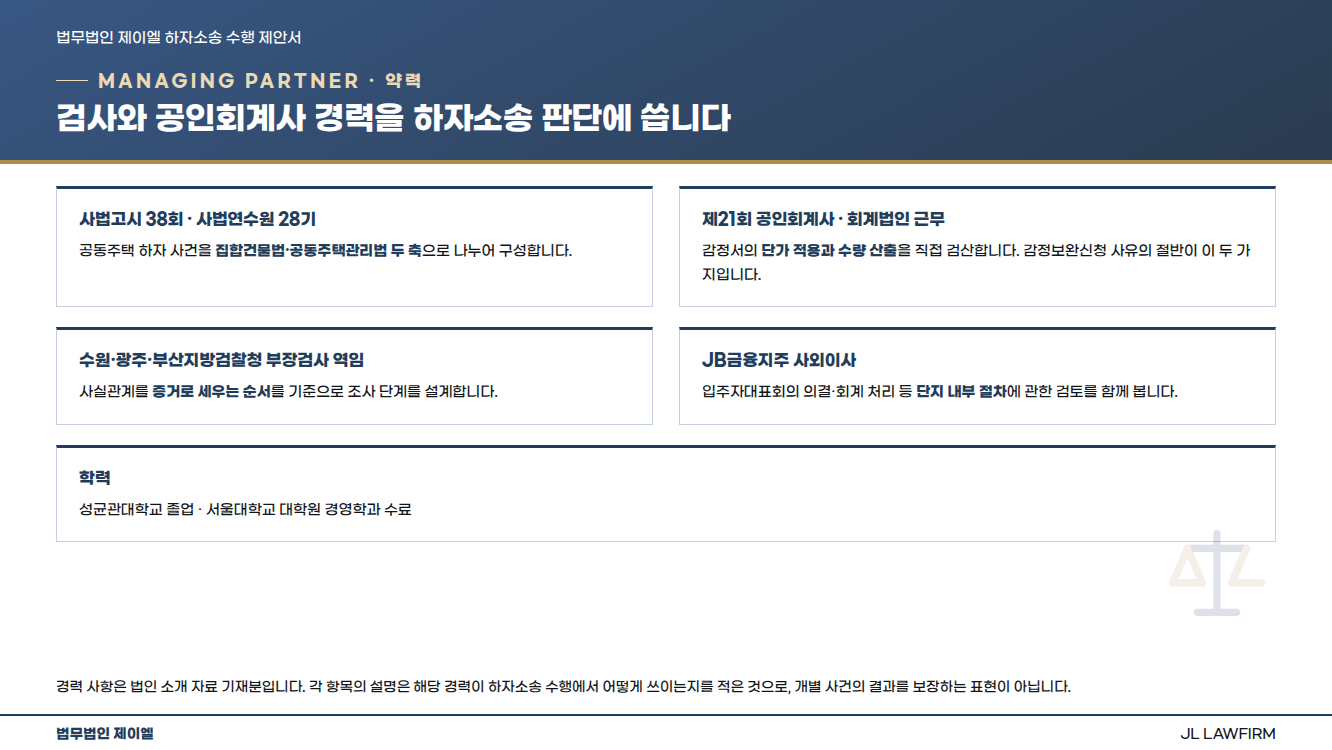
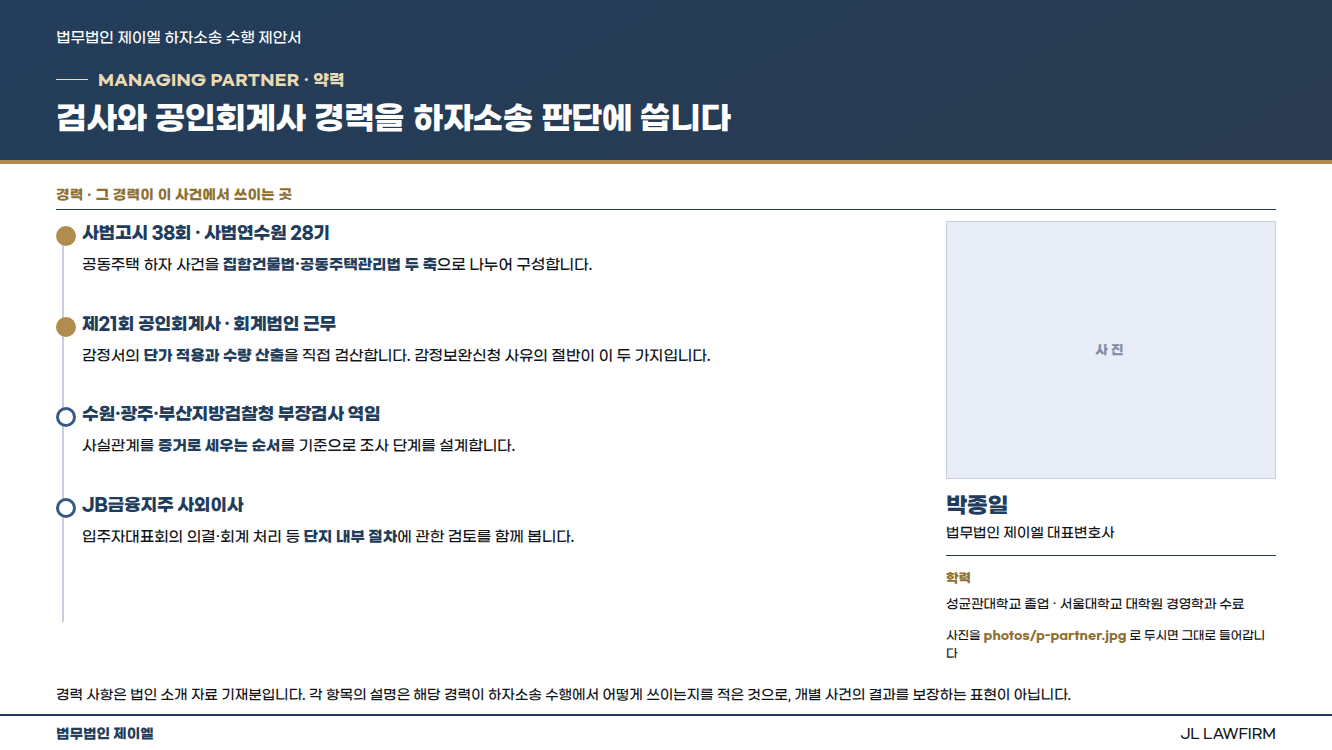
9·10·11번 전면 재작성 — 형식을 셋 다 다르게
두 장(사무소 안내·인력 구성)이 eyebrow와 제목까지 똑같아 같은 내용이 두 번
나오는 것처럼 읽혔다. 셋을 서로 다른 형식으로 다시 짰다.

- 09 대표변호사 약력: 세로 연혁 타임라인. 왼쪽에 경력, 오른쪽에 그 경력이
  이 사건에서 쓰이는 곳. 변호사 사진 자리를 넣었다.
- 10 사무소 안내: 두 사무소를 2단으로 갈라 각각 사진·주소·연락처·관할을 담았다.
  제목을 '관할을 나누어 맡습니다'로 바꿔 11번과 겹치지 않게 했다.
- 11 인력 구성: 표에 '36명'이라고 적는 대신 점 36개로 세는 도트 차트로 바꿨다.
  변호사 7 대 사무직원 36의 차이가 눈으로 바로 들어온다.

경력·인원·주소는 기존 파일에 있던 값만 옮겼고 새로 만든 사실이 없다.

Claude-Session: https://claude.ai/code/session_01McKVzc7RRv66NSkAtofwT1

diff --git a/template/design/S26b2_PartnerCareer.dc.html b/template/design/S26b2_PartnerCareer.dc.html
@@ -11,105 +11,115 @@
     font-family:"Pretendard","Malgun Gothic",sans-serif;color:var(--ink);position:relative;}
   .runner{position:absolute;top:28px;left:56px;right:56px;display:flex;justify-content:space-between;
     font-size:15px;color:var(--muted);}
-  .eyebrow{position:absolute;left:56px;top:70px;font-size:17px;letter-spacing:.2em;color:var(--gold-ink);
+  .eyebrow{position:absolute;left:56px;top:70px;font-size:16px;letter-spacing:.02em;color:var(--gold-ink);
     font-weight:700;display:flex;align-items:center;gap:10px;}
   .eyebrow::before{content:"";width:32px;height:1px;background:var(--gold-ink);}
-  .badge{position:absolute;right:56px;top:70px;font-size:14px;color:#8F7033;background:#FBF7EE;
-    border:1px solid #E7D9BC;border-radius:0;padding:4px 10px;}
-  .title{position:absolute;left:56px;top:96px;right:56px;font-size:34px;font-weight:800;
+  .title{position:absolute;left:56px;top:96px;right:56px;font-size:32px;font-weight:800;
     color:var(--navy);letter-spacing:-.02em;line-height:1.4;}
-  .note{font-size:14px;color:var(--muted);background:#fff;border:1px solid var(--line);border-top:3px solid var(--navy);
-    border-radius:0;padding:12px 18px;line-height:1.6;}
-  .note-gold{font-size:14px;color:var(--muted);background:#FBF7EE;border:1px solid #E7D9BC;
-    border-radius:0;padding:12px 18px;line-height:1.7;}
   .footer{position:absolute;bottom:0;left:0;right:0;height:36px;display:flex;align-items:center;
     justify-content:space-between;padding:0 56px;border-top:1.4px solid var(--line);
     font-size:14px;color:var(--muted);}
   .footer .firm{color:var(--navy);font-weight:700;}
 
-  .title{font-size:32px;}
-  .wrap{position:absolute;left:56px;top:186px;right:56px;bottom:52px;display:flex;gap:38px;}
-  .photo{width:290px;flex:0 0 auto;}
-  .photo .box{width:290px;height:362px;border:1px solid var(--line);overflow:hidden;
-    background:radial-gradient(circle at 50% 30%,#E9EDF8,#dfe3ec);}
-  .photo img{width:100%;height:100%;object-fit:cover;display:block;}
-  .photo .nm{margin-top:16px;font-size:24px;font-weight:800;color:var(--navy);}
-  .photo .rl{margin-top:5px;font-size:14px;color:var(--gold-ink);font-weight:700;letter-spacing:.04em;}
-  .body{flex:1;display:flex;flex-direction:column;}
-  .greet{font-size:18px;line-height:1.95;color:var(--ink);}
-  /* 강조 문장 — S02·S03b와 같은 어법(골드 바 + 굵은 네이비 단문) */
-  .gbar{margin-top:24px;width:56px;height:4px;background:var(--gold);}
-  .gpunch{margin-top:16px;font-size:22px;font-weight:800;color:var(--navy);
-    line-height:1.5;letter-spacing:-.02em;}
-  .greet b{color:var(--navy);}
-  .career{margin-top:22px;padding-top:18px;border-top:1.4px solid var(--line);
-    display:grid;grid-template-columns:repeat(2,1fr);gap:9px 28px;}
-  .career li{position:relative;padding-left:13px;font-size:14px;color:var(--ink);line-height:1.65;list-style:none;}
-  .career li::before{content:"";position:absolute;left:0;top:9px;width:4px;height:4px;
-    background:var(--gold);border-radius:50%;}
-  .sign{margin-top:auto;padding-top:16px;border-top:1px solid var(--line);
-    display:flex;justify-content:space-between;align-items:flex-end;}
-  .sign .f{font-size:14px;color:var(--ink);}
-  .sign .n{font-size:19px;font-weight:800;color:var(--navy);}
+  /* ── 본문 프리미티브 ── */
+  .body{position:absolute;left:56px;right:56px;top:186px;bottom:104px;}
+  .sec{font-size:14px;font-weight:800;color:var(--gold-ink);letter-spacing:.02em;
+    padding-bottom:6px;border-bottom:1.6px solid var(--navy);margin-bottom:11px;}
+  .sec+.sec,.blk+.sec{margin-top:16px;}
+
+  .cards{display:grid;gap:14px;}
+  .c{border:1px solid var(--line);border-top:3px solid var(--navy);background:#fff;padding:14px 17px;}
+  .c .ck{font-size:16.5px;font-weight:800;color:var(--navy);letter-spacing:-.01em;}
+  .c .cv{margin-top:8px;font-size:14.5px;line-height:1.62;color:var(--ink);}
+  .c .cn{font-size:13px;font-weight:800;color:var(--gold-ink);letter-spacing:.12em;margin-bottom:6px;}
+  .c b{color:var(--navy);font-weight:800;}
+
+  .flow{display:grid;gap:0;}
+  .step{position:relative;border:1px solid var(--line);background:#fff;padding:13px 15px 14px;}
+  .step+.step{border-left:0;}
+  .step .num{font-size:12px;font-weight:800;color:#fff;background:var(--fill);
+    width:22px;height:22px;display:flex;align-items:center;justify-content:center;margin-bottom:8px;}
+  .step .t{font-size:15.5px;font-weight:800;color:var(--ink);line-height:1.35;}
+  .step .b{margin-top:7px;font-size:13.5px;line-height:1.55;color:var(--ink);}
+
+  .tbl{border:1px solid var(--line);}
+  .tbl .th{display:flex;background:var(--fill);color:#fff;font-size:15px;font-weight:700;}
+  .tbl .th div{padding:10px 15px;}
+  .tbl .tr{display:flex;border-top:1px solid var(--line);font-size:14.5px;line-height:1.5;}
+  .tbl .tr div{padding:9px 15px;}
+  .tbl .tr b{color:var(--navy);font-weight:800;}
+
+  .kv .r{display:flex;gap:10px;font-size:14.5px;line-height:1.55;padding:7px 0;
+    border-bottom:1px solid var(--line);}
+  .kv .r:last-child{border-bottom:0;}
+  .kv .r span{flex:0 0 118px;color:var(--navy);font-weight:700;}
+  .kv .r em{flex:1;font-style:normal;}
+
+  .split{display:flex;gap:26px;height:100%;}
+  .split>div{flex:1;}
+
+  .verify{position:absolute;left:56px;right:56px;bottom:96px;height:152px;
+    display:grid;grid-template-columns:1fr 1fr 1fr;
+    border:1.4px solid var(--line);border-top:3px solid var(--navy);background:#fff;}
+  .verify>div{padding:13px 18px 12px;border-left:1px solid var(--line);}
+  .verify>div:first-child{border-left:0;}
+  .verify .vk{font-size:15.5px;font-weight:800;color:var(--navy);margin-bottom:7px;
+    display:flex;align-items:center;gap:7px;letter-spacing:-.01em;}
+  .verify .vk::before{content:"";width:4px;height:15px;background:var(--gold);}
+  .verify .vv{font-size:14.5px;line-height:1.6;color:var(--ink);}
+  .verify .warnk{color:#C0392B;}
+  .verify .warnk::before{background:#C0392B!important;}
+  .verify *{background:transparent;}
+
+  .note{position:absolute;left:56px;right:56px;bottom:44px;font-size:14px;line-height:1.6;color:var(--ink);}
 
   /* ── 법무법인 제안서 헤더 밴드 ── */
   body::before{content:"";position:absolute;left:0;top:0;right:0;height:160px;
-    background:linear-gradient(152deg,#385783 0%,#2A3B4F 100%);z-index:0;}
+    background:linear-gradient(150deg,#223D5B 0%,#2A3B4F 100%);z-index:0;}
   body::after{content:"";position:absolute;left:0;top:160px;right:0;height:4px;
     background:var(--gold);z-index:1;}
   .runner{z-index:2;color:#FFFFFF!important;}
   .eyebrow{z-index:2;color:#EBD9B4!important;}
   .eyebrow::before{background:#EBD9B4!important;}
   .title{z-index:2;color:#FFFFFF!important;}
-  .badge{z-index:2;background:rgba(255,255,255,.10)!important;
-    border-color:rgba(203,178,126,.55)!important;color:#EBD9B4!important;}
-
-  /* ── 바탕 ── 흰 여백이 구멍처럼 보이지 않도록 연한 지면을 깔고
-     내용 블록을 흰색으로 올린다. 빈 곳도 지면으로 읽힌다. */
   html,body{background:#FFFFFF!important;}
-  body>*:not(.runner):not(.eyebrow):not(.title):not(.badge):not(.footer){z-index:1;}
+  body>*:not(.runner):not(.eyebrow):not(.title):not(.footer){z-index:1;}
   .footer{background:#fff;border-top:2px solid var(--navy)!important;z-index:2;}
-  /* 흰 블록 위로 올라오는 요소들 */
-  .note,.card,.c,.g,.b,.n,.m,.st,.item,.qa,.q,.p,.w,.s,.z,.tbl,.table,
-  .cards>div,.grid>div,.list>div,.cols>div,.need>div,.stages>div{background:#fff;}
-  .note{background:#fff!important;}
 
-  /* 네이비 패널 내부는 바탕 규칙에서 제외 (흰 칠이 글자를 덮지 않도록) */
-  .warn *,.decide *,.result *,.rec *,.calc *,.contact *,.key *,.resp *,
-  .sum *,.panel *,.band *,.record *,.total *{background:transparent!important;}
-  /* ── 약력 장 ── 2열 카드형. 경력 한 줄 + 하자소송에서 어떻게 쓰이는지 한 줄 */
-  .cv{position:absolute;left:56px;top:186px;right:56px;
-    display:grid;grid-template-columns:1fr 1fr;gap:20px 26px;}
-  .cv .i{border:1px solid var(--line);border-top:3px solid var(--navy);background:#fff;
-    padding:19px 22px 20px;}
-  .cv .wide{grid-column:1 / -1;}
-  .cv .k{font-size:16.5px;font-weight:800;color:var(--navy);letter-spacing:-.01em;line-height:1.4;}
-  .cv .d{margin-top:8px;font-size:14.5px;line-height:1.62;color:var(--ink);}
-  .cv .d b{color:var(--navy);font-weight:800;}
-  .cvnote{position:absolute;left:56px;right:56px;bottom:52px;font-size:14px;
-    line-height:1.6;color:var(--ink);}
+  /* ── 세로 연혁 타임라인 ── 왼쪽에 경력, 오른쪽에 그 경력이 이 사건에서 쓰이는 곳.
+     카드 상자를 반복하지 않으려고 축과 점으로만 구성했다. */
+  .cvwrap{display:flex;gap:30px;margin-top:10px;}
+  .tl{flex:1;position:relative;padding-left:26px;}
+  /* 축은 마지막 점에서 끝나야 한다. 마지막 항목의 아래 여백만큼 잘라 낸다. */
+  .tl::before{content:"";position:absolute;left:6px;top:8px;bottom:40px;width:2px;background:var(--line);}
+  .tl .it{position:relative;padding:0 0 34px;}
+  .tl .it:last-child{padding-bottom:0;}
+  .tl .it::before{content:"";position:absolute;left:-26px;top:5px;width:14px;height:14px;
+    background:#fff;border:3px solid var(--fill);border-radius:50%;}
+  .tl .it.key::before{border-color:var(--gold);background:var(--gold);}
+  .tl .k{font-size:17.5px;font-weight:800;color:var(--navy);letter-spacing:-.02em;}
+  .tl .v{margin-top:8px;font-size:15px;line-height:1.7;color:var(--ink);}
+  .tl .v b{color:var(--navy);font-weight:800;}
+  .cvside{flex:0 0 330px;display:flex;flex-direction:column;}
+  .cvside .pbox{width:330px;height:258px;border:1px solid var(--line);
+    background:var(--card) center/cover no-repeat;position:relative;}
+  .cvside .pbox::after{content:"사진";position:absolute;left:50%;top:50%;
+    transform:translate(-50%,-50%);font-size:13px;font-weight:800;letter-spacing:.24em;color:#7F8CA6;}
+  .cvside .nm{margin-top:14px;font-size:22px;font-weight:800;color:var(--navy);letter-spacing:-.02em;}
+  .cvside .rl{margin-top:6px;font-size:14px;color:var(--ink);}
+  .cvside .ed{margin-top:14px;padding-top:12px;border-top:1.4px solid var(--navy);
+    font-size:13px;line-height:1.62;color:var(--ink);}
+  .cvside .ed b{display:block;margin-bottom:5px;color:var(--gold-ink);font-weight:800;font-size:13px;}
+  .cvside .pf{margin-top:11px;font-size:12px;line-height:1.5;color:var(--ink);}
+  .cvside .pf b{color:var(--gold-ink);font-weight:800;}
 </style>
 </head>
 <body>
   <div class="runner"><span>법무법인 제이엘 하자소송 수행 제안서</span></div>
   <div class="eyebrow">MANAGING PARTNER · 약력</div>
   <div class="title">검사와 공인회계사 경력을 하자소송 판단에 씁니다</div>
-
-  <div class="cv">
-    <div class="i"><div class="k">사법고시 38회 · 사법연수원 28기</div>
-      <div class="d">공동주택 하자 사건을 <b>집합건물법·공동주택관리법 두 축</b>으로 나누어 구성합니다.</div></div>
-    <div class="i"><div class="k">제21회 공인회계사 · 회계법인 근무</div>
-      <div class="d">감정서의 <b>단가 적용과 수량 산출</b>을 직접 검산합니다. 감정보완신청 사유의 절반이 이 두 가지입니다.</div></div>
-    <div class="i"><div class="k">수원·광주·부산지방검찰청 부장검사 역임</div>
-      <div class="d">사실관계를 <b>증거로 세우는 순서</b>를 기준으로 조사 단계를 설계합니다.</div></div>
-    <div class="i"><div class="k">JB금융지주 사외이사</div>
-      <div class="d">입주자대표회의 의결·회계 처리 등 <b>단지 내부 절차</b>에 관한 검토를 함께 봅니다.</div></div>
-    <div class="i wide"><div class="k">학력</div>
-      <div class="d">성균관대학교 졸업 · 서울대학교 대학원 경영학과 수료</div></div>
-  </div>
-
-  <img src="step-judgment.svg" style="position:absolute;right:56px;bottom:118px;width:118px;height:118px;opacity:.13;pointer-events:none;">
-  <div class="cvnote">경력 사항은 법인 소개 자료 기재분입니다. 각 항목의 설명은 해당 경력이 하자소송 수행에서 어떻게 쓰이는지를 적은 것으로, 개별 사건의 결과를 보장하는 표현이 아닙니다.</div>
+  <div class="body"><div class="sec">경력 · 그 경력이 이 사건에서 쓰이는 곳</div><div class="cvwrap"><div class="tl"><div class="it key"><div class="k">사법고시 38회 · 사법연수원 28기</div><div class="v">공동주택 하자 사건을 <b>집합건물법·공동주택관리법 두 축</b>으로 나누어 구성합니다.</div></div><div class="it key"><div class="k">제21회 공인회계사 · 회계법인 근무</div><div class="v">감정서의 <b>단가 적용과 수량 산출</b>을 직접 검산합니다. 감정보완신청 사유의 절반이 이 두 가지입니다.</div></div><div class="it"><div class="k">수원·광주·부산지방검찰청 부장검사 역임</div><div class="v">사실관계를 <b>증거로 세우는 순서</b>를 기준으로 조사 단계를 설계합니다.</div></div><div class="it"><div class="k">JB금융지주 사외이사</div><div class="v">입주자대표회의 의결·회계 처리 등 <b>단지 내부 절차</b>에 관한 검토를 함께 봅니다.</div></div></div><div class="cvside"><div class="pbox" style="background-image:url(p-partner.jpg)"></div><div class="nm">박종일</div><div class="rl">법무법인 제이엘 대표변호사</div><div class="ed"><b>학력</b>성균관대학교 졸업 · 서울대학교 대학원 경영학과 수료</div><div class="pf">사진을 <b>photos/p-partner.jpg</b> 로 두시면 그대로 들어갑니다</div></div></div></div>
+  <div class="note">경력 사항은 법인 소개 자료 기재분입니다. 각 항목의 설명은 해당 경력이 하자소송 수행에서 어떻게 쓰이는지를 적은 것으로, 개별 사건의 결과를 보장하는 표현이 아닙니다.</div>
   <div class="footer"><span class="firm">법무법인 제이엘</span><span>JL LAWFIRM</span></div>
 </body>
 </html>

diff --git a/template/design/S26c_Offices.dc.html b/template/design/S26c_Offices.dc.html
@@ -22,7 +22,7 @@
   .footer .firm{color:var(--navy);font-weight:700;}
 
   /* ── 본문 프리미티브 ── */
-  .body{position:absolute;left:56px;right:56px;top:186px;bottom:246px;}
+  .body{position:absolute;left:56px;right:56px;top:186px;bottom:104px;}
   .sec{font-size:14px;font-weight:800;color:var(--gold-ink);letter-spacing:.02em;
     padding-bottom:6px;border-bottom:1.6px solid var(--navy);margin-bottom:11px;}
   .sec+.sec,.blk+.sec{margin-top:16px;}
@@ -31,7 +31,7 @@
   .c{border:1px solid var(--line);border-top:3px solid var(--navy);background:#fff;padding:14px 17px;}
   .c .ck{font-size:16.5px;font-weight:800;color:var(--navy);letter-spacing:-.01em;}
   .c .cv{margin-top:8px;font-size:14.5px;line-height:1.62;color:var(--ink);}
-  .c .cn{font-size:13px;font-weight:800;color:var(--gold-ink);letter-spacing:.13em;margin-bottom:6px;}
+  .c .cn{font-size:13px;font-weight:800;color:var(--gold-ink);letter-spacing:.12em;margin-bottom:6px;}
   .c b{color:var(--navy);font-weight:800;}
 
   .flow{display:grid;gap:0;}
@@ -71,11 +71,11 @@
   .verify .warnk::before{background:#C0392B!important;}
   .verify *{background:transparent;}
 
-  .note{position:absolute;left:56px;right:56px;bottom:52px;font-size:14px;line-height:1.6;color:var(--ink);}
+  .note{position:absolute;left:56px;right:56px;bottom:44px;font-size:14px;line-height:1.6;color:var(--ink);}
 
   /* ── 법무법인 제안서 헤더 밴드 ── */
   body::before{content:"";position:absolute;left:0;top:0;right:0;height:160px;
-    background:linear-gradient(152deg,#385783 0%,#2A3B4F 100%);z-index:0;}
+    background:linear-gradient(150deg,#223D5B 0%,#2A3B4F 100%);z-index:0;}
   body::after{content:"";position:absolute;left:0;top:160px;right:0;height:4px;
     background:var(--gold);z-index:1;}
   .runner{z-index:2;color:#FFFFFF!important;}
@@ -86,45 +86,31 @@
   body>*:not(.runner):not(.eyebrow):not(.title):not(.footer){z-index:1;}
   .footer{background:#fff;border-top:2px solid var(--navy)!important;z-index:2;}
 
-  /* 촘촘 모드 — 내용이 하단 밴드에 닿을 때 여백만 줄인다 */
-  .tbl .tr div{padding:6.6px 15px;}
-  .tbl .th div{padding:8px 15px;}
-  .kv .r{padding:4.6px 0;}
-  .sec{margin-bottom:9px;}
-  .sec+.sec,.blk+.sec{margin-top:12px;}
-  .c{padding:12px 16px;}
-
-  /* 촘촘 — 밴드 위치 통일로 본문 높이가 26px 줄어든 만큼 여백을 압축한다 */
-  .tbl .tr div{padding:6.4px 15px;} .tbl .th div{padding:7.6px 15px;}
-  .kv .r{padding:4.4px 0;} .sec{margin-bottom:9px;}
-  .sec+.sec,.blk+.sec{margin-top:11px;} .c{padding:11px 15px;}
-  .cards{gap:12px;} .step{padding:11px 14px 12px;}
-
-  /* ── 사진 자리 ── 파일이 없으면 연한 상자로 남고, 넣으면 그대로 채워진다.
-     아래 배경 파일명 그대로 template/design/photos/ 에 두면 된다. */
-  .pslot{display:flex;gap:22px;align-items:stretch;margin-top:18px;
-    border-top:1.4px solid var(--line);padding-top:16px;}
-  .pslot .pbox{flex:0 0 auto;border:1px solid var(--line);
-    background:var(--card) center/cover no-repeat;position:relative;}
-  .pslot .pbox::after{content:"사진";position:absolute;left:50%;top:50%;
-    transform:translate(-50%,-50%);font-size:13px;font-weight:800;
-    letter-spacing:.24em;color:#7F8CA6;}
-  .pslot .ptx{flex:1;display:flex;flex-direction:column;justify-content:center;}
-  .pslot .ph{font-size:15.5px;font-weight:800;color:var(--navy);
-    display:flex;align-items:center;gap:8px;letter-spacing:-.01em;}
-  .pslot .ph::before{content:"";width:4px;height:15px;background:var(--gold);}
-  .pslot .pd{margin-top:10px;font-size:14.5px;line-height:1.7;color:var(--ink);max-width:600px;}
-  .pslot .pd b{color:var(--navy);font-weight:800;}
-  .pslot .pf{margin-top:13px;padding-top:11px;border-top:1px solid var(--line);
-    font-size:13px;color:var(--ink);}
-  .pslot .pf b{color:var(--gold-ink);font-weight:800;}
+  /* ── 두 사무소 2단 대비 ── 표 대신 사무소마다 한 칸을 주고 사진을 위에 얹는다. */
+  .offs{display:grid;grid-template-columns:1fr 1fr;gap:26px;margin-top:12px;}
+  .off{border:1px solid var(--line);border-top:3px solid var(--navy);background:#fff;}
+  .off .pbox{height:196px;background:var(--card) center/cover no-repeat;position:relative;
+    border-bottom:1px solid var(--line);}
+  .off .pbox::after{content:"사진";position:absolute;left:50%;top:50%;
+    transform:translate(-50%,-50%);font-size:13px;font-weight:800;letter-spacing:.24em;color:#7F8CA6;}
+  .off .in{padding:16px 20px 18px;}
+  .off .tag{font-size:12.5px;font-weight:800;letter-spacing:.16em;color:var(--gold-ink);}
+  .off .nm{margin-top:7px;font-size:22px;font-weight:800;color:var(--navy);letter-spacing:-.02em;}
+  .off .ad{margin-top:11px;font-size:14.5px;line-height:1.62;color:var(--ink);}
+  .off .tel{margin-top:11px;font-size:19px;font-weight:800;color:var(--navy);letter-spacing:-.02em;}
+  .off .ct{margin-top:12px;padding-top:11px;border-top:1px solid var(--line);
+    font-size:13.5px;line-height:1.6;color:var(--ink);}
+  .off .ct b{color:var(--navy);font-weight:800;}
+  .off .pf{margin-top:9px;font-size:12.5px;color:var(--ink);}
+  .off .pf b{color:var(--gold-ink);font-weight:800;}
 </style>
 </head>
 <body>
-    <div class="runner"><span>법무법인 제이엘 하자소송 수행 제안서</span></div>
+  <div class="runner"><span>법무법인 제이엘 하자소송 수행 제안서</span></div>
   <div class="eyebrow">사무소 안내 [고정]</div>
-  <div class="title">본사와 동탄 분사무소 두 곳에서 수도권·충청 단지를 맡습니다</div>
-  <div class="body" style="bottom:56px"><div class="sec">사무소</div><div class="cards blk" style="grid-template-columns:repeat(2,1fr);margin-bottom:16px"><div class="c"><div class="cn">본사</div><div class="ck">서울 서초</div><div class="cv">서울 서초구 서초대로53길 15 정원빌딩 4층<br><b>02-537-0123</b><br>서울중앙지방법원·서울고등법원 인접</div></div><div class="c"><div class="cn">분사무소</div><div class="ck">경기 화성 동탄</div><div class="cv">경기 화성시 동탄순환대로 127-5 우성센트럴타워 914호<br><b>1899-4252</b><br>수원지방법원 관할 단지 대응 · www.jllawfirm.co.kr</div></div></div><div class="pslot"><div class="pbox" style="width:401px;height:301px;background-image:url(p-office.jpg)"></div><div class="ptx"><div class="ph">사무소 전경</div><div class="pd">서초 본사와 동탄 분사무소의 <b>외관 또는 응접·회의 공간</b>입니다. 두 곳 모두 있으면 나란히 싣겠습니다.</div><div class="pf">파일을 <b>template/design/photos/p-office.jpg</b> 로 두시면 그대로 들어갑니다 · 가로 4:3 권장</div></div></div></div>
+  <div class="title">본사와 동탄 분사무소 두 곳에서 관할을 나누어 맡습니다</div>
+  <div class="body"><div class="sec">사무소 두 곳 · 관할 법원에 맞춰 나누어 맡습니다</div><div class="offs"><div class="off"><div class="pbox" style="background-image:url(p-office-seoul.jpg)"></div><div class="in"><div class="tag">HEAD OFFICE</div><div class="nm">서울 서초 본사</div><div class="ad">서울 서초구 서초대로53길 15<br>정원빌딩 4층</div><div class="tel">02-537-0123</div><div class="ct"><b>서울중앙지방법원·서울고등법원</b>에 인접해 있어 변론기일과 기록 열람에 바로 대응합니다.</div><div class="pf">사진을 <b>photos/p-office-seoul.jpg</b> 로 두시면 그대로 들어갑니다</div></div></div><div class="off"><div class="pbox" style="background-image:url(p-office-dongtan.jpg)"></div><div class="in"><div class="tag">BRANCH OFFICE</div><div class="nm">경기 화성 동탄 분사무소</div><div class="ad">경기 화성시 동탄순환대로 127-5<br>우성센트럴타워 914호</div><div class="tel">1899-4252</div><div class="ct"><b>수원지방법원 관할 단지</b>를 맡습니다. 설명회·서류 징구를 위해 단지로 직접 방문합니다.</div><div class="pf">사진을 <b>photos/p-office-dongtan.jpg</b> 로 두시면 그대로 들어갑니다</div></div></div></div></div>
+  <div class="note">주소·연락처는 법인 등록 사항입니다. 홈페이지 www.jllawfirm.co.kr · 단지 방문 일정은 총회·설명회 일정에 맞춰 조정합니다.</div>
   <div class="footer"><span class="firm">법무법인 제이엘</span><span>JL LAWFIRM</span></div>
 </body>
 </html>

diff --git a/template/design/S26c2_TeamCapacity.dc.html b/template/design/S26c2_TeamCapacity.dc.html
@@ -22,7 +22,7 @@
   .footer .firm{color:var(--navy);font-weight:700;}
 
   /* ── 본문 프리미티브 ── */
-  .body{position:absolute;left:56px;right:56px;top:186px;bottom:246px;}
+  .body{position:absolute;left:56px;right:56px;top:186px;bottom:264px;}
   .sec{font-size:14px;font-weight:800;color:var(--gold-ink);letter-spacing:.02em;
     padding-bottom:6px;border-bottom:1.6px solid var(--navy);margin-bottom:11px;}
   .sec+.sec,.blk+.sec{margin-top:16px;}
@@ -31,7 +31,7 @@
   .c{border:1px solid var(--line);border-top:3px solid var(--navy);background:#fff;padding:14px 17px;}
   .c .ck{font-size:16.5px;font-weight:800;color:var(--navy);letter-spacing:-.01em;}
   .c .cv{margin-top:8px;font-size:14.5px;line-height:1.62;color:var(--ink);}
-  .c .cn{font-size:13px;font-weight:800;color:var(--gold-ink);letter-spacing:.13em;margin-bottom:6px;}
+  .c .cn{font-size:13px;font-weight:800;color:var(--gold-ink);letter-spacing:.12em;margin-bottom:6px;}
   .c b{color:var(--navy);font-weight:800;}
 
   .flow{display:grid;gap:0;}
@@ -71,11 +71,11 @@
   .verify .warnk::before{background:#C0392B!important;}
   .verify *{background:transparent;}
 
-  .note{position:absolute;left:56px;right:56px;bottom:52px;font-size:14px;line-height:1.6;color:var(--ink);}
+  .note{position:absolute;left:56px;right:56px;bottom:44px;font-size:14px;line-height:1.6;color:var(--ink);}
 
   /* ── 법무법인 제안서 헤더 밴드 ── */
   body::before{content:"";position:absolute;left:0;top:0;right:0;height:160px;
-    background:linear-gradient(152deg,#385783 0%,#2A3B4F 100%);z-index:0;}
+    background:linear-gradient(150deg,#223D5B 0%,#2A3B4F 100%);z-index:0;}
   body::after{content:"";position:absolute;left:0;top:160px;right:0;height:4px;
     background:var(--gold);z-index:1;}
   .runner{z-index:2;color:#FFFFFF!important;}
@@ -86,27 +86,34 @@
   body>*:not(.runner):not(.eyebrow):not(.title):not(.footer){z-index:1;}
   .footer{background:#fff;border-top:2px solid var(--navy)!important;z-index:2;}
 
-  /* 촘촘 모드 — 내용이 하단 밴드에 닿을 때 여백만 줄인다 */
-  .tbl .tr div{padding:6.6px 15px;}
-  .tbl .th div{padding:8px 15px;}
-  .kv .r{padding:4.6px 0;}
-  .sec{margin-bottom:9px;}
-  .sec+.sec,.blk+.sec{margin-top:12px;}
-  .c{padding:12px 16px;}
-
-  /* 촘촘 — 밴드 위치 통일로 본문 높이가 26px 줄어든 만큼 여백을 압축한다 */
-  .tbl .tr div{padding:6.4px 15px;} .tbl .th div{padding:7.6px 15px;}
-  .kv .r{padding:4.4px 0;} .sec{margin-bottom:9px;}
-  .sec+.sec,.blk+.sec{margin-top:11px;} .c{padding:11px 15px;}
-  .cards{gap:12px;} .step{padding:11px 14px 12px;}
+  /* ── 인원 도트 차트 ── 표로 '36명'이라고 적는 것보다 점 36개가 눈에 들어온다.
+     점 하나가 사람 한 명이고, 개수는 법인 소개 자료 기재분과 같다. */
+  .team{display:grid;grid-template-columns:1fr 1fr;gap:34px;margin-top:12px;}
+  .grp .gh{display:flex;align-items:baseline;gap:11px;
+    padding-bottom:9px;border-bottom:1.6px solid var(--navy);}
+  .grp .gn{font-size:30px;font-weight:800;color:var(--navy);letter-spacing:-.03em;line-height:1;}
+  .grp .gt{font-size:16px;font-weight:800;color:var(--navy);letter-spacing:-.01em;}
+  .grp .gr{margin-left:auto;font-size:13px;color:var(--ink);}
+  .dots{display:flex;flex-wrap:wrap;gap:8px;margin-top:18px;max-width:462px;}
+  .dots i{width:22px;height:22px;display:block;background:var(--fill);}
+  .dots.gold i{background:var(--gold);}
+  .grp .gd{margin-top:18px;font-size:15px;line-height:1.65;color:var(--ink);}
+  .grp .gd b{color:var(--navy);font-weight:800;}
+  .tech{margin-top:26px;padding-top:18px;border-top:1.4px solid var(--line);
+    display:flex;gap:16px;align-items:flex-start;}
+  .tech .tk{flex:0 0 176px;font-size:16px;font-weight:800;color:var(--navy);
+    display:flex;align-items:center;gap:8px;letter-spacing:-.01em;}
+  .tech .tk::before{content:"";width:4px;height:15px;background:var(--gold);}
+  .tech .tv{flex:1;font-size:15px;line-height:1.65;color:var(--ink);}
+  .tech .tv b{color:var(--navy);font-weight:800;}
 </style>
 </head>
 <body>
-    <div class="runner"><span>법무법인 제이엘 하자소송 수행 제안서</span></div>
-  <div class="eyebrow">사무소 안내 [고정]</div>
-  <div class="title">본사와 동탄 분사무소 두 곳에서 수도권·충청 단지를 맡습니다</div>
-  <div class="body"><div class="sec">구성 · 하자소송은 세대 단위 사무 처리량이 결과를 좌우합니다</div><div class="tbl blk" style=""><div class="th"><div style="width:150px">구분</div><div style="width:190px">인원</div><div style="flex:1">역할</div></div><div class="tr"><div style="width:150px">변호사</div><div style="width:190px">7인</div><div style="flex:1">사건 수행 · 서면 작성 · 변론 · 감정 대응</div></div><div class="tr"><div style="width:150px">사무직원</div><div style="width:190px">36명</div><div style="flex:1">채권양도 서류 징구·검수 · 세대 명단 관리 · 송달 관리</div></div><div class="tr"><div style="width:150px">기술 인력</div><div style="width:190px">건축시공기술사</div><div style="flex:1">현장조사 입회 · 도면 대조 · 감정 항목 검토</div></div></div><img src="idea-stat.svg" style="position:absolute;right:20px;bottom:18px;width:128px;height:128px;opacity:.13;pointer-events:none;"></div>
-  <div class="verify"><div><div class="vk">핵심 내용</div><div class="vv">1,000세대 단지면 채권양도 서류가 1,000건입니다. 서명 확인·인적사항 대조·미회수 관리가 전부 수작업입니다.</div></div><div><div class="vk">수치 강조</div><div class="vv">변호사 수보다 <b>징구를 감당할 인력이 있는가</b>가 실제 회수율을 좌우합니다. 사무직원 36명 구성입니다.</div></div><div><div class="vk warnk">기한 경고</div><div class="vv">설명회와 서류 징구는 단지 일정에 맞춰야 합니다. 총회 일정이 정해지면 미리 알려 주십시오.</div></div></div>
+  <div class="runner"><span>법무법인 제이엘 하자소송 수행 제안서</span></div>
+  <div class="eyebrow">인력 구성 [고정]</div>
+  <div class="title">하자소송의 결과는 세대 단위 사무 처리량이 좌우합니다</div>
+  <div class="body"><div class="sec">인원 구성 · 점 하나가 한 사람입니다</div><div class="team"><div class="grp"><div class="gh"><div class="gn">7</div><div class="gt">변호사</div><div class="gr">인</div></div><div class="dots gold"><i></i><i></i><i></i><i></i><i></i><i></i><i></i></div><div class="gd">사건 수행 · 서면 작성 · 변론 · <b>감정 대응</b>을 맡습니다.</div></div><div class="grp"><div class="gh"><div class="gn">36</div><div class="gt">사무직원</div><div class="gr">명</div></div><div class="dots"><i></i><i></i><i></i><i></i><i></i><i></i><i></i><i></i><i></i><i></i><i></i><i></i><i></i><i></i><i></i><i></i><i></i><i></i><i></i><i></i><i></i><i></i><i></i><i></i><i></i><i></i><i></i><i></i><i></i><i></i><i></i><i></i><i></i><i></i><i></i><i></i></div><div class="gd">채권양도 서류 <b>징구·검수</b> · 세대 명단 관리 · 송달 관리를 맡습니다.</div></div></div><div class="tech"><div class="tk">건축시공기술사</div><div class="tv">법인 내부 기술 인력입니다. <b>현장조사 입회 · 도면 대조 · 감정 항목 검토</b>를 변호사와 같은 자리에서 수행합니다.</div></div></div>
+  <div class="verify"><div><div class="vk">핵심 내용</div><div class="vv">1,000세대 단지면 채권양도 서류가 <b>1,000건</b>입니다. 서명 확인·인적사항 대조·미회수 관리가 전부 수작업입니다.</div></div><div><div class="vk">수치 강조</div><div class="vv">변호사 수보다 <b>징구를 감당할 인력이 있는가</b>가 실제 회수율을 좌우합니다. 사무직원 36명 구성입니다.</div></div><div><div class="vk warnk">기한 경고</div><div class="vv">설명회와 서류 징구는 단지 일정에 맞춰야 합니다. 총회 일정이 정해지면 미리 알려 주십시오.</div></div></div>
   <div class="footer"><span class="firm">법무법인 제이엘</span><span>JL LAWFIRM</span></div>
 </body>
 </html>
